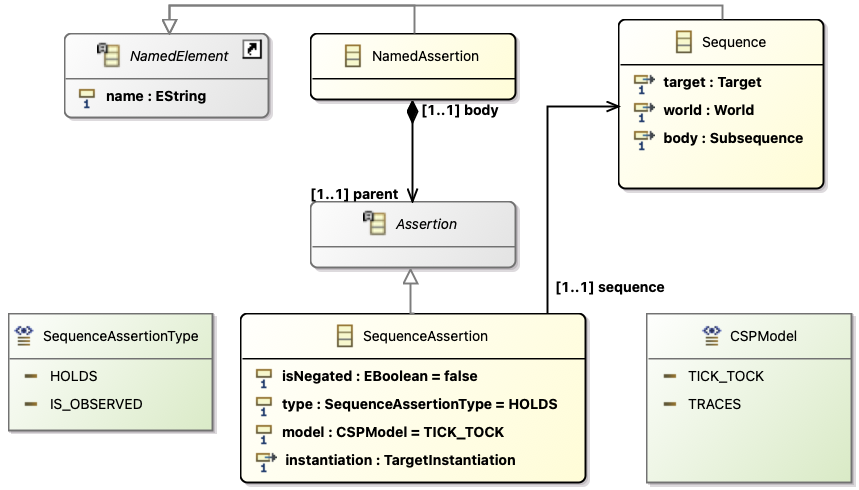
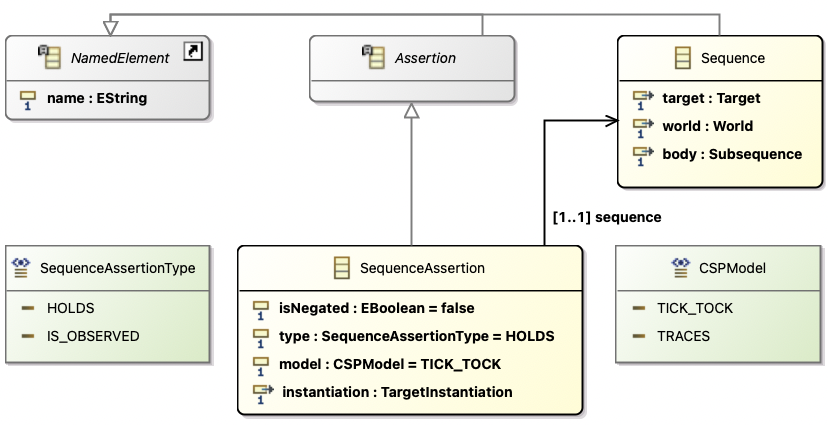
Merge assertions in report too

Changed region(s): [[0.0, 0.0, 1.0, 1.0]]

diff --git a/docs/metamodel.tex b/docs/metamodel.tex
@@ -23,7 +23,6 @@
 \newcommand{\meventtopic}{\metaref{EventTopic}}
 \newcommand{\moperationtopic}{\metaref{OperationTopic}}
 \newcommand{\mcspfragment}{\metaref{CSPFragment}}
-\newcommand{\mnamedassertion}{\metaref{NamedAssertion}}
 \newcommand{\massertion}{\metaref{Assertion}}
 \newcommand{\msequenceassertion}{\metaref{SequenceAssertion}}
 \newcommand{\msequenceassertiontype}{\metaref{SequenceAssertionType}}
@@ -84,9 +83,9 @@ Each \mrapackage{} can contain zero or more of each of these types of content:
 	a CSP fragment, currently not bound to a particular process
 	\todo{this will change};
 \item
-	\mnamedassertion{}
+	\massertion{}
 	(\cref{sec:metamodel-assertions}):
-	a named assertion, currently over sequence diagrams only
+	an assertion, currently over sequence diagrams only
 	\todo{more types of assertion will appear};
 \end{itemize}
 
@@ -420,18 +419,9 @@ world as W
 \Cref{fig:metamodel-assertions} depicts the part of the metamodel concerning
 assertions.
 
-\subsection{\mnamedassertion}
-
-A \mnamedassertion{} binds an \massertion{} to a name.
-
-\begin{lstlisting}[style=Example]
-assertion AssertionName:        // NamedAssertion...
-    SequenceName does not hold  // ...containing a SequenceAssertion
-\end{lstlisting}
-
 \subsection{\massertion}
 
-An \massertion{} is an \emph{anonymous} assertion statement.  Currently, there is
+An \massertion{} is an named assertion statement.  Currently, there is
 only one type of assertion: a \msequenceassertion{}.  \todo{This will change
 when merging with the existing language, if not sooner.}
 
@@ -451,11 +441,11 @@ target' (reverse refinement).  The assertion can be negated.  The choice of
 traces refinement.  This will change.}
 
 \begin{lstlisting}[style=Example]
-SequenceName holds           // positive 'holds' SequenceAssertion
-SequenceName does not hold   // negative 'holds' SequenceAssertion
-SequenceName is observed     // positive 'is observed' SequenceAssertion
-SequenceName is not observed // negative 'is observed' SequenceAssertion
+assertion A: SequenceName holds           // positive 'holds' SequenceAssertion
+assertion B: SequenceName does not hold   // negative 'holds' SequenceAssertion
+assertion C: SequenceName is observed     // positive 'is observed' SequenceAssertion
+assertion D: SequenceName is not observed // negative 'is observed' SequenceAssertion
 
-SequenceName holds with { CONSTANT set to 5 }
+assertion E: SequenceName holds with { CONSTANT set to 5 }
 // example of SequenceAssertion with custom TargetInstantiation
 \end{lstlisting}
